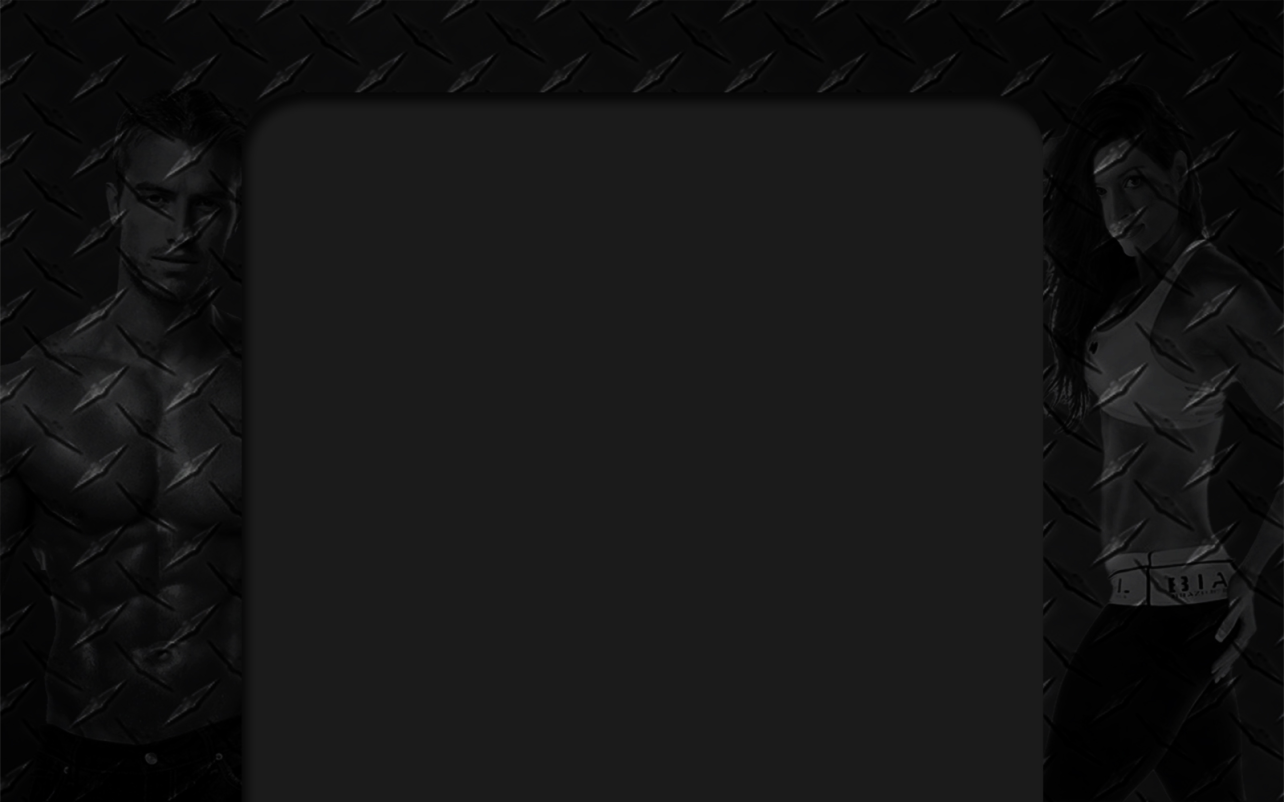
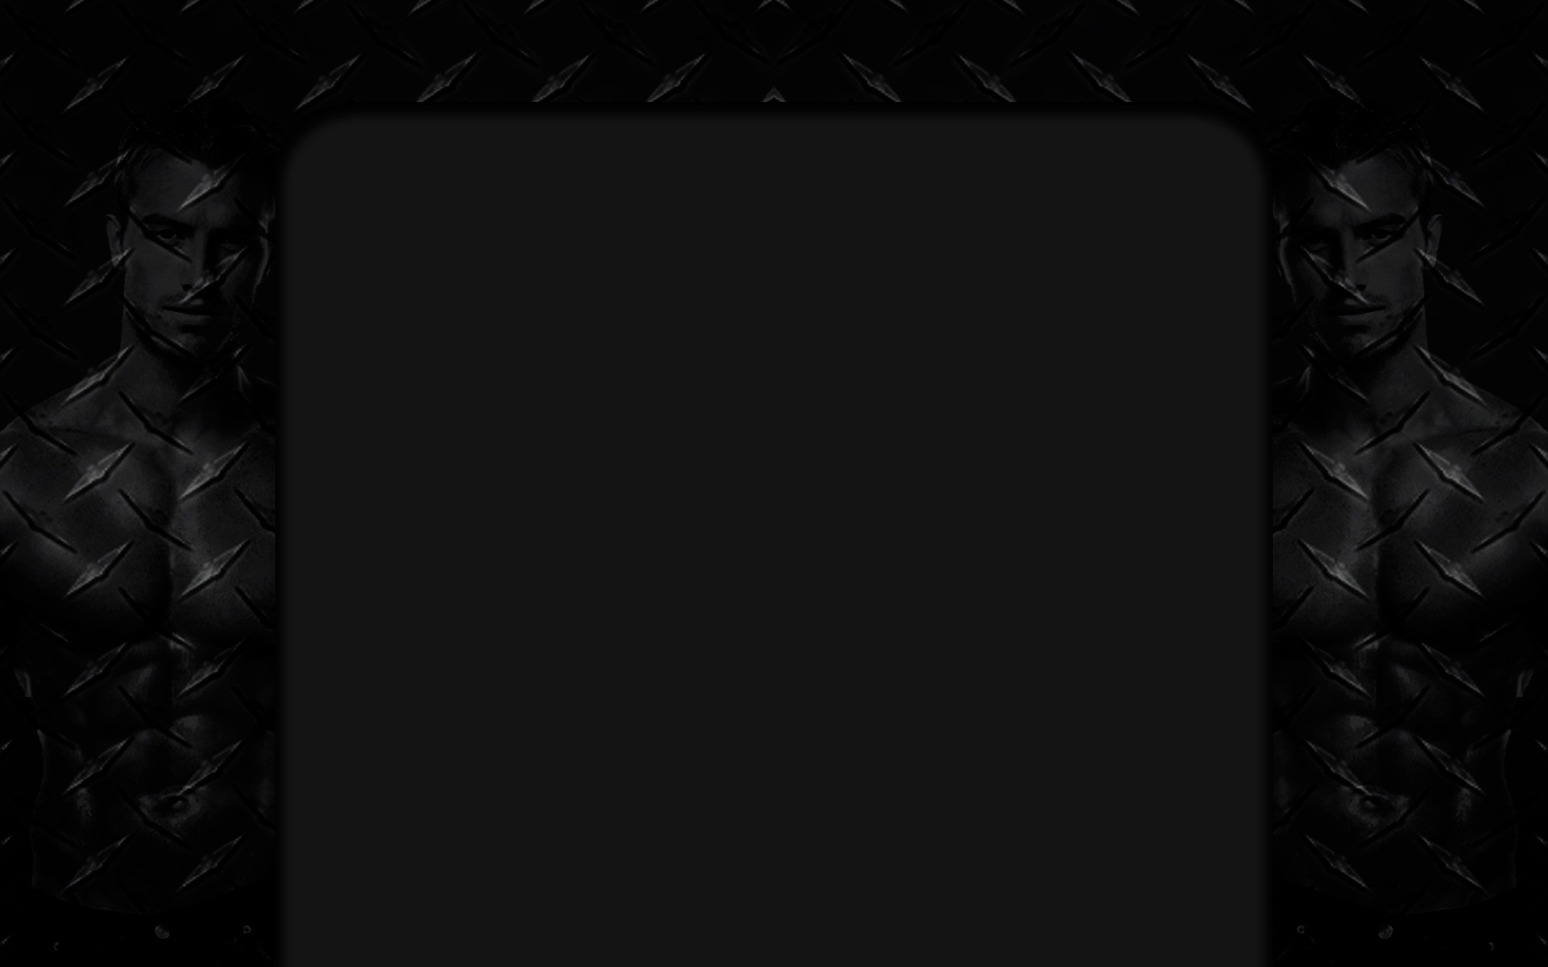
Add files via upload

diff --git a/Main.py b/Main.py
@@ -103,40 +103,55 @@ def NutrientCalculator():
         for i in temp:
             food.append(i[0])
         calnut = Tk()
-        calnut.config(bg="black")
-
-        calnut.geometry('1920x1080')
-        label = Label(calnut, text ="Enter a product that you ate.",  bg = "white")
+        calnut.geometry("1024x768")
+        calnut.config(bg = "black")
+        Label(calnut, text="",bg="black").pack()
+        Label(calnut, text="",bg="black").pack()
+        
+        label = Label(calnut, text ="Enter a product that you ate.",  bg = "cyan")
         label.pack()
+        Label(calnut, text="",bg="black").pack()
         # user input, product
-        label2 = Label(calnut, text = "Name: ", bg = "white")
+        label2 = Label(calnut, text = "Name: ", bg = "red")
         label2.pack()
+        Label(calnut, text="",bg="black").pack()
         entry = Entry(calnut)
         entry.pack()
+
         entry.bind('<KeyRelease>', on_keyrelease)
+        Label(calnut, text="",bg="black").pack()
         listbox = Listbox(calnut)
         listbox.pack()
         listbox.bind('<Double-Button-1>', on_select)
         listbox.bind('<<ListboxSelect>>', on_select)
         listbox_update(food)
-        label3 = Label(calnut, text = "Amount: ", bg = "white")
+        Label(calnut, text="",bg="black").pack()
+        label3 = Label(calnut, text = "Amount: ", bg = "yellow")
         label3.pack()
+        Label(calnut, text="",bg="black").pack()
         entryGram = Entry(calnut, width = 20, bg = "white")
         entryGram.pack()
+        Label(calnut, text="",bg="black").pack()
         # sub
         # output
         label4 = Label(calnut, text = "These are the nutrition values:", bg = "white")
         label4.pack()
+        Label(calnut, text="",bg="black").pack()
+
         output = Text(calnut, width = 20, height = 6, wrap = WORD, bg = "white")
         output.pack()
-        display = Button(calnut, text = "Display amount of calories.", width = 8, command = calcheck)
-        display.pack(padx = 10, pady = 10)
-        adder = Button(calnut, text = "Add to tracker.", width = 8, command = add)
-        adder.pack(padx = 10, pady = 10)
-        submitter = Button(calnut, text = "Submit", width = 8, command = submit,bg = "white")
-        submitter.pack(padx = 10, pady = 10)
-        goodbye = Button(calnut, text = "Back", width = 8, command = lambda:calnut.destroy(),bg = "white")
-        goodbye.pack(padx = 10, pady = 10)
+        Label(calnut, text="",bg="black").pack()
+        display = Button(calnut, text = "Display amount of calories.",  command = calcheck)
+        display.pack()
+        Label(calnut, text="",bg="black").pack()
+        adder = Button(calnut, text = "Add to tracker.", command = add)
+        adder.pack()
+        Label(calnut, text="",bg="black").pack()
+        submitter = Button(calnut, text = "Submit",  command = submit,bg = "white")
+        submitter.pack()
+        Label(calnut, text="",bg="black").pack()
+        goodbye = Button(calnut, text = "Back",  command = lambda:calnut.destroy(),bg = "white")
+        goodbye.pack()
         calnut.mainloop()
     def add():
         global calsum
@@ -160,21 +175,29 @@ def NutrientCalculator():
             threading.Timer(3, lambda:add.destroy()).start()
 
         add= Tk()
+        add.config(bg = "black")
         label = Label(add, text ="Enter the product name and its nutritional "\
         "values per serving", bg = "black", fg = "white")
         label.pack()
+        Label(add, text="",bg="black").pack()
+        Label(add, text="",bg="black").pack()
         label1 = Label(add, text = "Name:", bg = "black", fg = "white")
-        label1.pack()
+        label1.pack()   
+        Label(add, text="",bg="black").pack()
         nameEntry = Entry(add, width = 20, bg = "white")
         nameEntry.pack()
         a = nameEntry.get()
+        Label(add, text="",bg="black").pack()
         label2 = Label(add, text = "Calories:", bg = "black", fg = "white")
         label2.pack()
+        Label(add, text="",bg="black").pack()
         kcalEntry = Entry(add, width = 20, bg = "white")
         kcalEntry.pack()
         b = kcalEntry.get()
+        Label(add, text="",bg="black").pack()
         submit = Button(add, text = "Submit", width = 8, command = inserttable)
         submit.pack(padx = 10, pady = 10)
+        Label(add, text="",bg="black").pack()
         button3 = Button(add, text = "Back", width = 20, command = lambda: add.destroy())
         button3.pack(padx = 10, pady = 10)
         add.mainloop()
@@ -388,18 +411,30 @@ def graphcal():
     days = []
     for i in range(1,len(Valuelist)+1):
         days.append(i)
-
     plt.plot(days,Valuelist)
     plt.xlabel("Day")
     plt.ylabel("Calories Consumed")
     plt.title("CALORIES")
     plt.show()
-def sendmail():
+def sendmailsteps():
     img_format = 'png'
     f = io.BytesIO()
     C.execute("select * from steps where acc_name = \"{}\"".format(cookie))
     result = C.fetchone()
     steps=list(result)
+    C.execute("select email from account where acc_name = \"{}\"".format(cookie))
+    adress = C.fetchone()
+    emailadress=list(adress)
+    emailadressforsending = emailadress[0]
+    C.execute("select BMI from account where acc_name = \"{}\"".format(cookie))
+    BMI1 = C.fetchone()
+    BMI2=list(BMI1)
+    BMI3 = BMI2[0]
+    C.execute("select BodyFat from account where acc_name = \"{}\"".format(cookie))
+    BF1 = C.fetchone()
+    BF2=list(BF1)
+    BF3 = BF2[0]
+
     Valuelist = []
     steps.pop(0)    
     for i in steps:
@@ -416,7 +451,7 @@ def sendmail():
     msg = EmailMessage()
     msg['Subject'] = 'Hello there'
     msg['From'] = 'fitnesstracker@gmail.com'
-    msg['To'] = 'gauthamgopinadh@gmail.com'
+    msg['To'] = emailadressforsending
 
     # set the plain text body
     msg.set_content('This is a plain text body.')
@@ -430,8 +465,7 @@ def sendmail():
     msg.add_alternative("""\
     <html>
         <body>
-            <p>This is an HTML body.<br>
-            It also has an image.
+            <p>Your BMI is """+str(BMI3)+""" and your Body fat percentage is """+str(BF3)+"""."""+"""
             </p>
             <img src="cid:{image_cid}">
         </body>
@@ -444,6 +478,81 @@ def sendmail():
 
     # now open the image and attach it to the email
     with open('graph1.png', 'rb') as img:
+
+        # know the Content-Type of the image
+        maintype, subtype = mimetypes.guess_type(img.name)[0].split('/')
+
+        # attach it
+        msg.get_payload()[1].add_related(img.read(), 
+                                            maintype=maintype, 
+                                            subtype=subtype, 
+                                            cid=image_cid)
+    session = smtplib.SMTP('smtp.gmail.com', 587)
+    session.starttls()
+    session.login('fitnesstrackercasestudy@gmail.com', "Password@2021")
+    session.send_message(msg)
+    session.quit()
+def sendmailcal():
+    img_format = 'png'
+    f = io.BytesIO()
+    C.execute("select * from calories where acc_name = \"{}\"".format(cookie))
+    result = C.fetchone()
+    calories=list(result)
+    C.execute("select email from account where acc_name = \"{}\"".format(cookie))
+    adress = C.fetchone()
+    emailadress=list(adress)
+    emailadressforsending = emailadress[0]
+    C.execute("select BMI from account where acc_name = \"{}\"".format(cookie))
+    BMI1 = C.fetchone()
+    BMI2=list(BMI1)
+    BMI3 = BMI2[0]
+    C.execute("select BodyFat from account where acc_name = \"{}\"".format(cookie))
+    BF1 = C.fetchone()
+    BF2=list(BF1)
+    BF3 = BF2[0]
+    Valuelist = []
+    calories.pop(0)    
+    for i in calories:
+        if i:
+            Valuelist.append(i)
+    days=[]
+    for i in range(1,len(Valuelist)+1):
+        days.append(i)
+    plt.plot(days,Valuelist)
+    plt.xlabel("Date")
+    plt.ylabel("CALORIES")
+    plt.title("CALORIES")
+    plt.savefig("graph2",dpi = 100)
+    msg = EmailMessage()
+    msg['Subject'] = 'Hello there'
+    msg['From'] = 'fitnesstracker@gmail.com'
+    msg['To'] = emailadressforsending
+
+    # set the plain text body
+    msg.set_content('This is a plain text body.')
+
+    # now create a Content-ID for the image
+    image_cid = make_msgid()
+    # if `domain` argument isn't provided, it will 
+    # use your computer's name
+
+    # set an alternative html body
+    msg.add_alternative("""\
+    <html>
+        <body>
+            <p>Your BMI is """+str(BMI3)+""" and your Body fat percentage is """+str(BF3)+"""."""+"""
+            </p>
+            <img src="cid:{image_cid}">
+        </body>
+    </html>
+    """.format(image_cid=image_cid[1:-1]), subtype='html')
+    # image_cid looks like <long.random.number@xyz.com>
+    # to use it as the img src, we don't need `<` or `>`
+    # so we use [1:-1] to strip them off
+
+
+    # now open the image and attach it to the email
+    with open('graph2.png', 'rb') as img:
 
         # know the Content-Type of the image
         maintype, subtype = mimetypes.guess_type(img.name)[0].split('/')
@@ -478,7 +587,7 @@ def graphstep():
     plt.ylabel("Date")
     plt.title("STEPS")
     plt.show()
-def BMIREEVAL():
+def BMIREEVAl():
     bmi=Tk()
     bmi.title("BMI Calculator")
     bmi.geometry("500x400")
@@ -623,7 +732,7 @@ def bmiwi():
     Label(bmiwind, text="",bg="black").pack()
     Label(bmiwind, text="",bg="black").pack()
     caloriegraph=Button(bmiwind,text="CAL GRAPH", font=("Arial",16,'bold'),fg="blue", bg='black',activeforeground='#5291ff',
-                    activebackground='black', compound='top',command=sendmail).pack()
+                    activebackground='black', compound='top',command=graphcal).pack()
     Label(bmiwind, text="",bg="black").pack()
     Label(bmiwind, text="",bg="black").pack()
     stepgraph=Button(bmiwind,text="STEPS GRAPH", font=("Arial",16,'bold'),fg="BLUE", bg='black',activeforeground='#5291ff',
@@ -638,16 +747,19 @@ def bmiwi():
     Label(bmiwind, text="",bg="black").pack()
 
     Bmirevaluate = Button(bmiwind, text="Re-Evaluate your BMI", font=("Arial", 16, 'bold'), fg="red", bg='black',activeforeground='#5291ff',
-                activebackground='black', compound='top', command = BMIREEVAL).pack()
+                activebackground='black', compound='top', command = BMIREEVAl).pack()
     Label(bmiwind, text="",bg="black").pack()
     Label(bmiwind, text="",bg="black").pack()
     nextday_button=Button(bmiwind,text="NEXT DAY", font=("Arial",16,'bold'),fg="green", bg='black',activeforeground='#5291ff',
         activebackground='black', compound='top', command=nextday).pack()
-
     Label(bmiwind, text="",bg="black").pack()
     Label(bmiwind, text="",bg="black").pack()
-
-
+    sendzastepsemail=Button(bmiwind,text="Send me a report on my steps count and general health.", font=("Arial",16,'bold'),fg="green", bg='black',activeforeground='#5291ff',
+        activebackground='black', compound='top', command=sendmailsteps).pack()
+    Label(bmiwind, text="",bg="black").pack()
+    Label(bmiwind, text="",bg="black").pack()
+    sendzacalemail=Button(bmiwind,text="Send me a report on my calorie intake and general health.", font=("Arial",16,'bold'),fg="green", bg='black',activeforeground='#5291ff',
+        activebackground='black', compound='top', command=sendmailcal).pack()
 
     bmiwind.config(background="black")
 
@@ -771,36 +883,34 @@ def forgot():
 
 windows=Tk()
 a="1600x1000"
-a = PhotoImage(file="./Fitness-Tracker-tkinter-main/download.png")
+a = PhotoImage(file="download.png")
 backImg = Label(image=a).place(x=1600,y=1000)
 canvas= Canvas(windows,width= 1600, height= 1000)
 canvas.pack(expand=True, fill= BOTH)
 canvas.create_image(0,0,image=a, anchor="nw")
-windows.geometry("1280x720")
+windows.geometry("1600x1000")
 windows.title("FITNESS TRACKER 20")
 usernameB=Entry(windows)
-usernameB.place(x=150,y=170)
+usernameB.place(x=750,y=220)
 label=Label(windows,
             text="FITNESS TRACKER",
             font=('Arial',20,'bold'),
             fg='yellow',
             bg='black',
-            padx=20,
-            pady=20,
-            compound='top').pack()
+            compound='top').place(x=650,y=160)
 username=Label(windows,
             text="username",
             font=('Arial',9,'bold'),
             fg='white',bg='black')
-password=Label(windows,text="password",font=('Arial',9,'bold'),fg='white',bg='black').pack()
-new_user=Label(windows,text="if a new user click here",font=('Arial',9,'bold'),fg='#e60202',bg="black").place(x=15,y=270)
+password=Label(windows,text="password",font=('Arial',9,'bold'),fg='white',bg='black').place(x=675,y=250)
+new_user=Label(windows,text="if a new user click here",font=('Arial',9,'bold'),fg='#e60202',bg="black").place(x=645,y=320)
 submit=Button(windows,text="Create Account",command=register,font=("Calibri",9),
               fg="white",bg='black',activeforeground='#5291ff',
               activebackground='black',
-              compound='top').place(x=175,y=270)
+              compound='top').place(x=790,y=320)
 passwordB=Entry(windows,show="*")
-passwordB.place(x=150,y=200)
-username.place(x=80,y=170)
+passwordB.place(x=750,y=250)
+username.place(x=675,y=220)
 
 
 button=Button(windows,text="login",command=check_pass,font=("commic sans",10),
@@ -808,8 +918,8 @@ button=Button(windows,text="login",command=check_pass,font=("commic sans",10),
               activebackground='black',
               compound='top')
 forgotpass=Button(windows, text="FORGOT PASSWORD", font=('comic sans', 10),fg="#5291ff",bg='black',activeforeground='#5291ff',
-              activebackground='black', command= forgot).place(x=175,y=300)             
-button.place(x=175,y=230)
+              activebackground='black', command= forgot).place(x=710,y=350)             
+button.place(x=750,y=280)
 
 windows.config(background="black")
 
